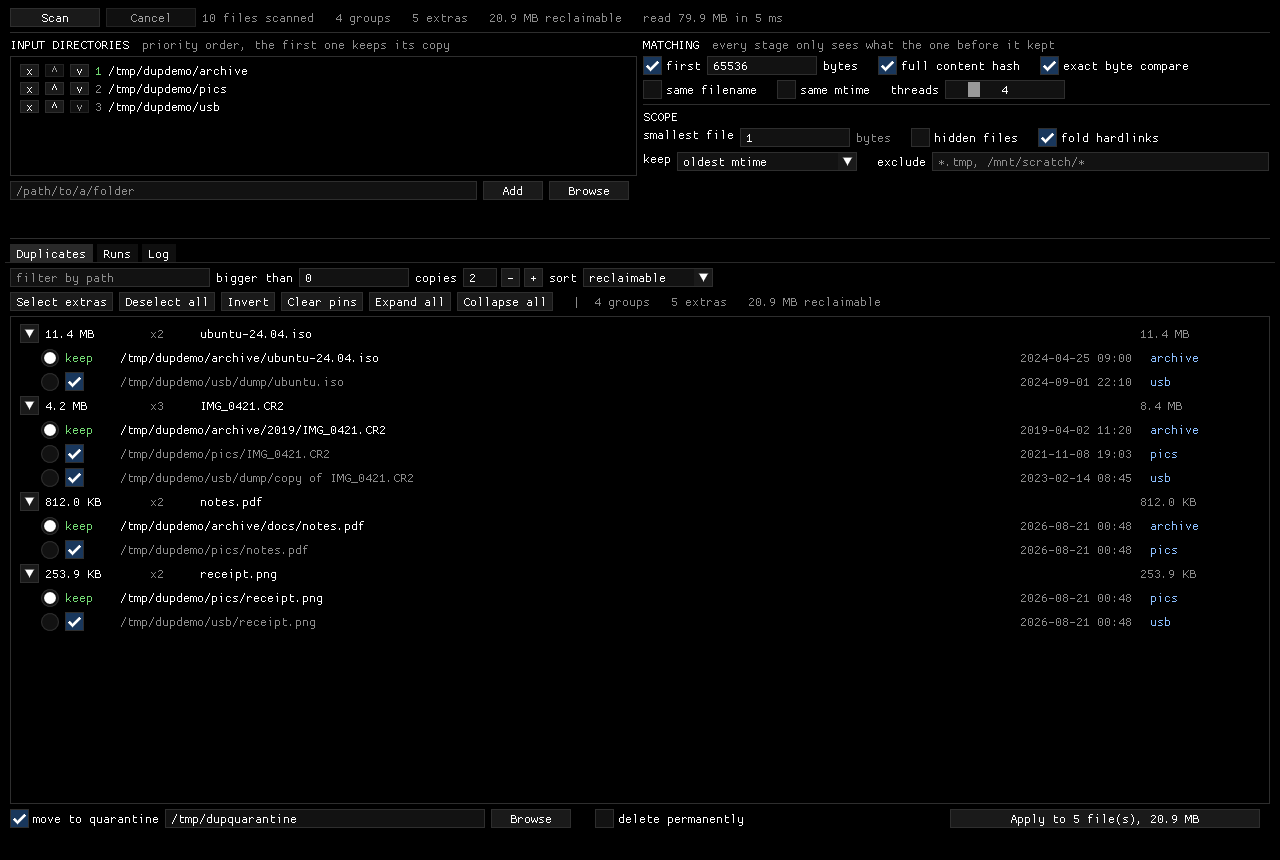
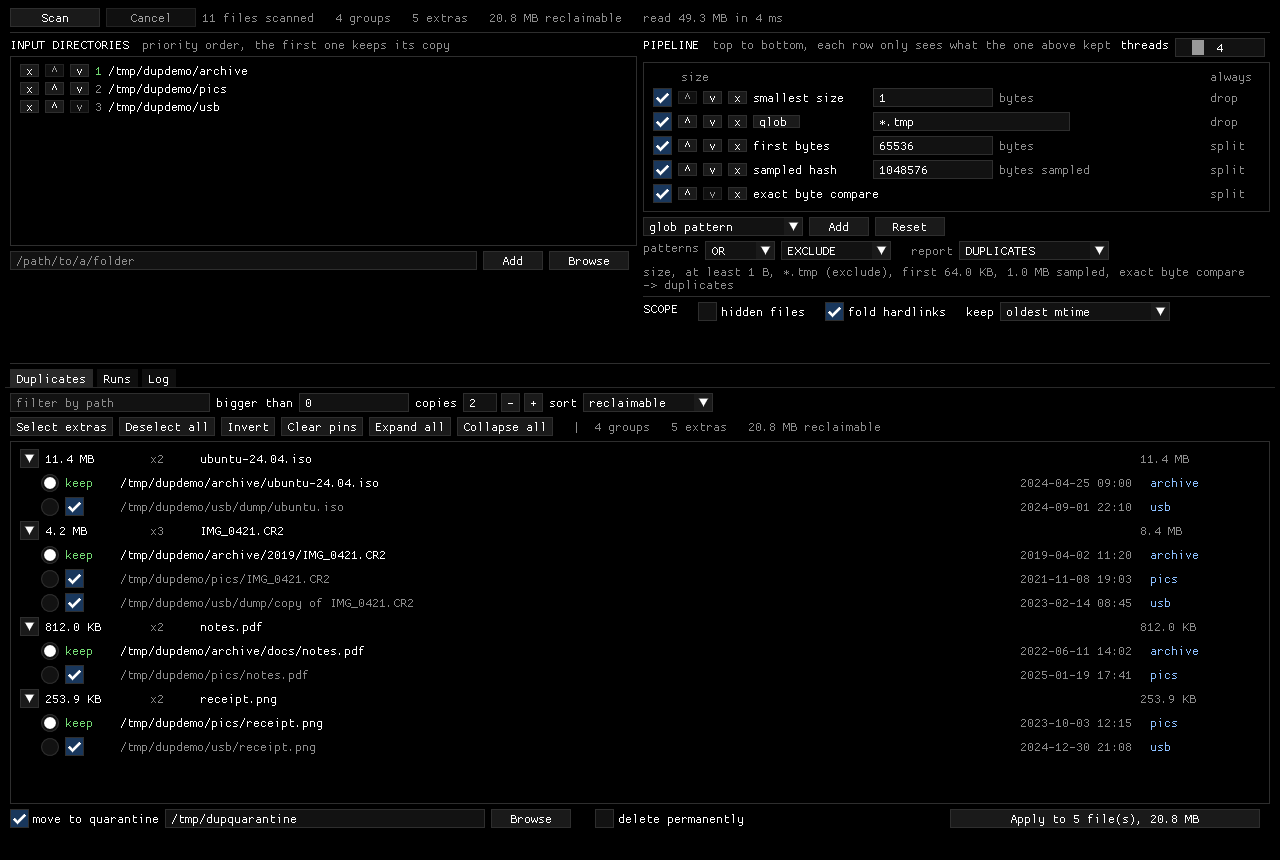
filters-demo

diff --git a/src/ui_inputs.cpp b/src/ui_inputs.cpp
@@ -32,7 +32,7 @@ void drawInputs(AppState& s) {
     ImGui::SameLine();
     ImGui::TextColored(kDim, " priority order, the first one keeps its copy");
 
-    ImGui::BeginChild("rootlist", ImVec2(0, 120), true);
+    ImGui::BeginChild("rootlist", ImVec2(0, 190), true);
 
     int removeAt = -1;
     int moveFrom = -1, moveTo = -1;
